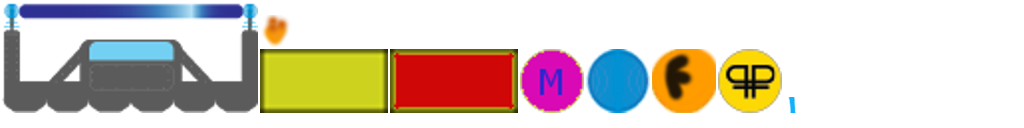
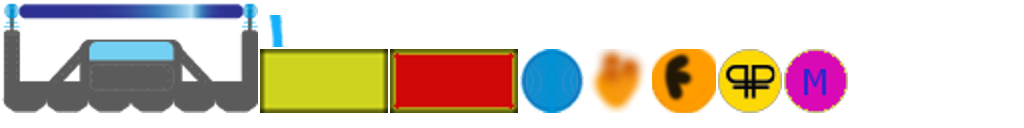
Adjusted Particle Effects For Efficiency
- Made particles bigger, but spawning less. Runs much better on my Samsung Galaxy S5 now. This will just be something that we have to tweak later down the line.

Changed region(s): [[0.5, 0.375, 0.6562, 0.9062], [0.75, 0.375, 0.8438, 0.9062], [0.25, 0.0938, 0.2812, 0.375]]

diff --git a/core/src/com/your3wishes/game/Assets.java b/core/src/com/your3wishes/game/Assets.java
@@ -1,10 +1,7 @@
 package com.your3wishes.game;
 
-import com.badlogic.gdx.Gdx;
+
 import com.badlogic.gdx.assets.AssetManager;
-import com.badlogic.gdx.assets.loaders.ParticleEffectLoader;
-import com.badlogic.gdx.graphics.Texture;
-import com.badlogic.gdx.graphics.g2d.ParticleEffect;
 import com.badlogic.gdx.graphics.g2d.TextureAtlas;
 
 /**
@@ -13,7 +10,7 @@ import com.badlogic.gdx.graphics.g2d.TextureAtlas;
 
 public class Assets {
     public AssetManager assetManager = new AssetManager();
-    
+
     public Assets() {
     }
 
